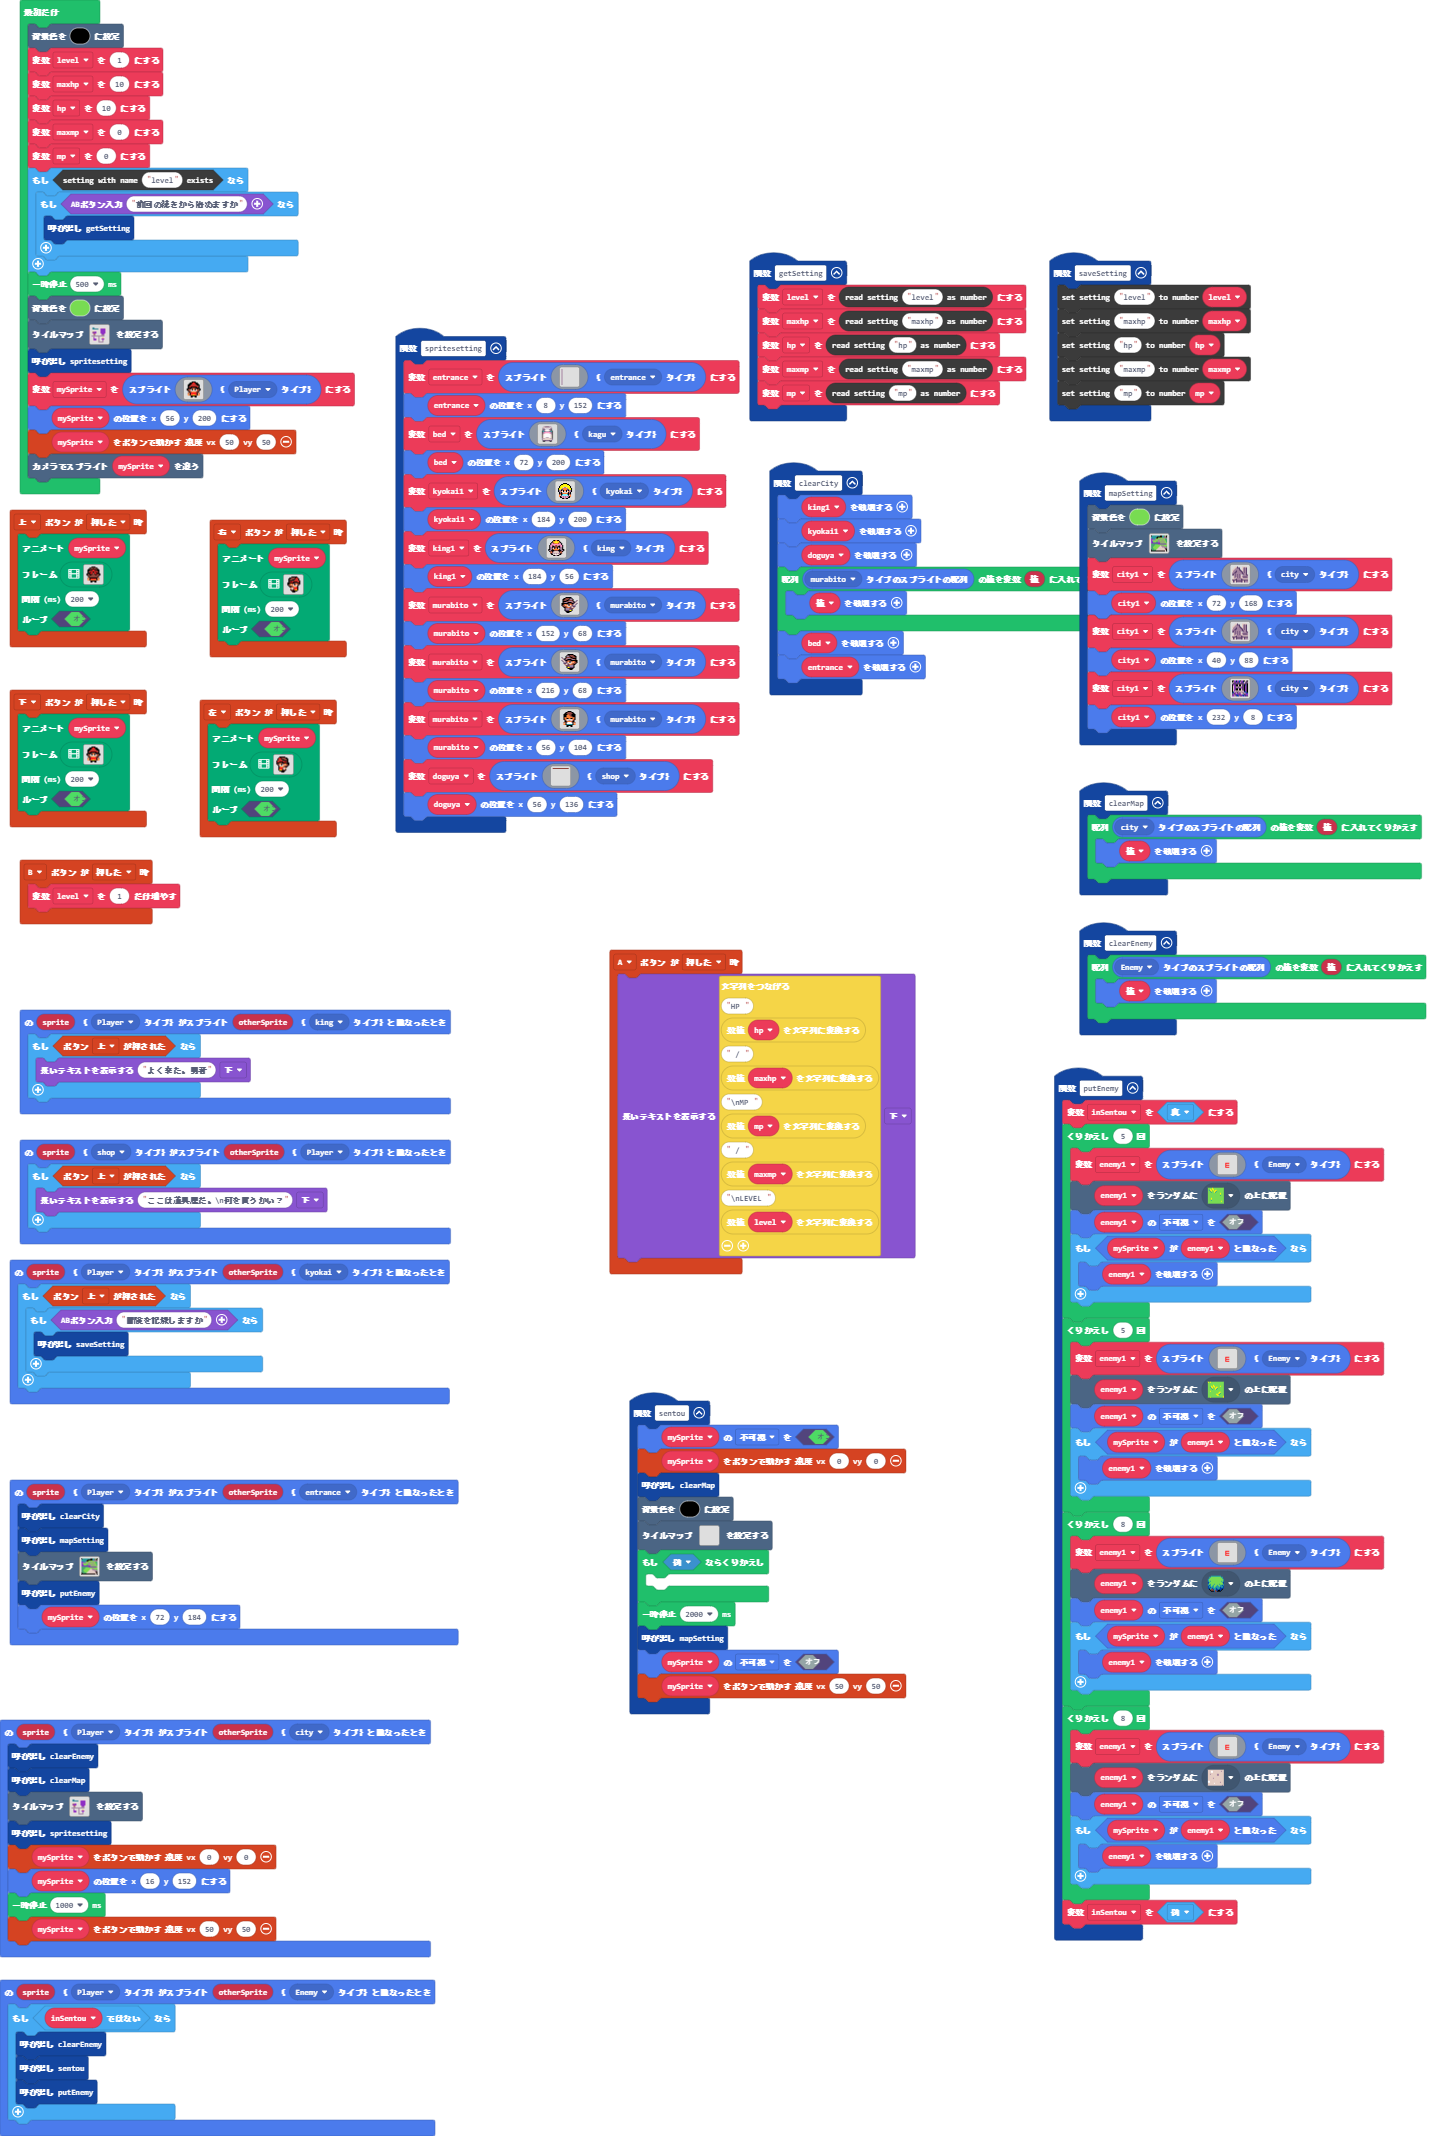
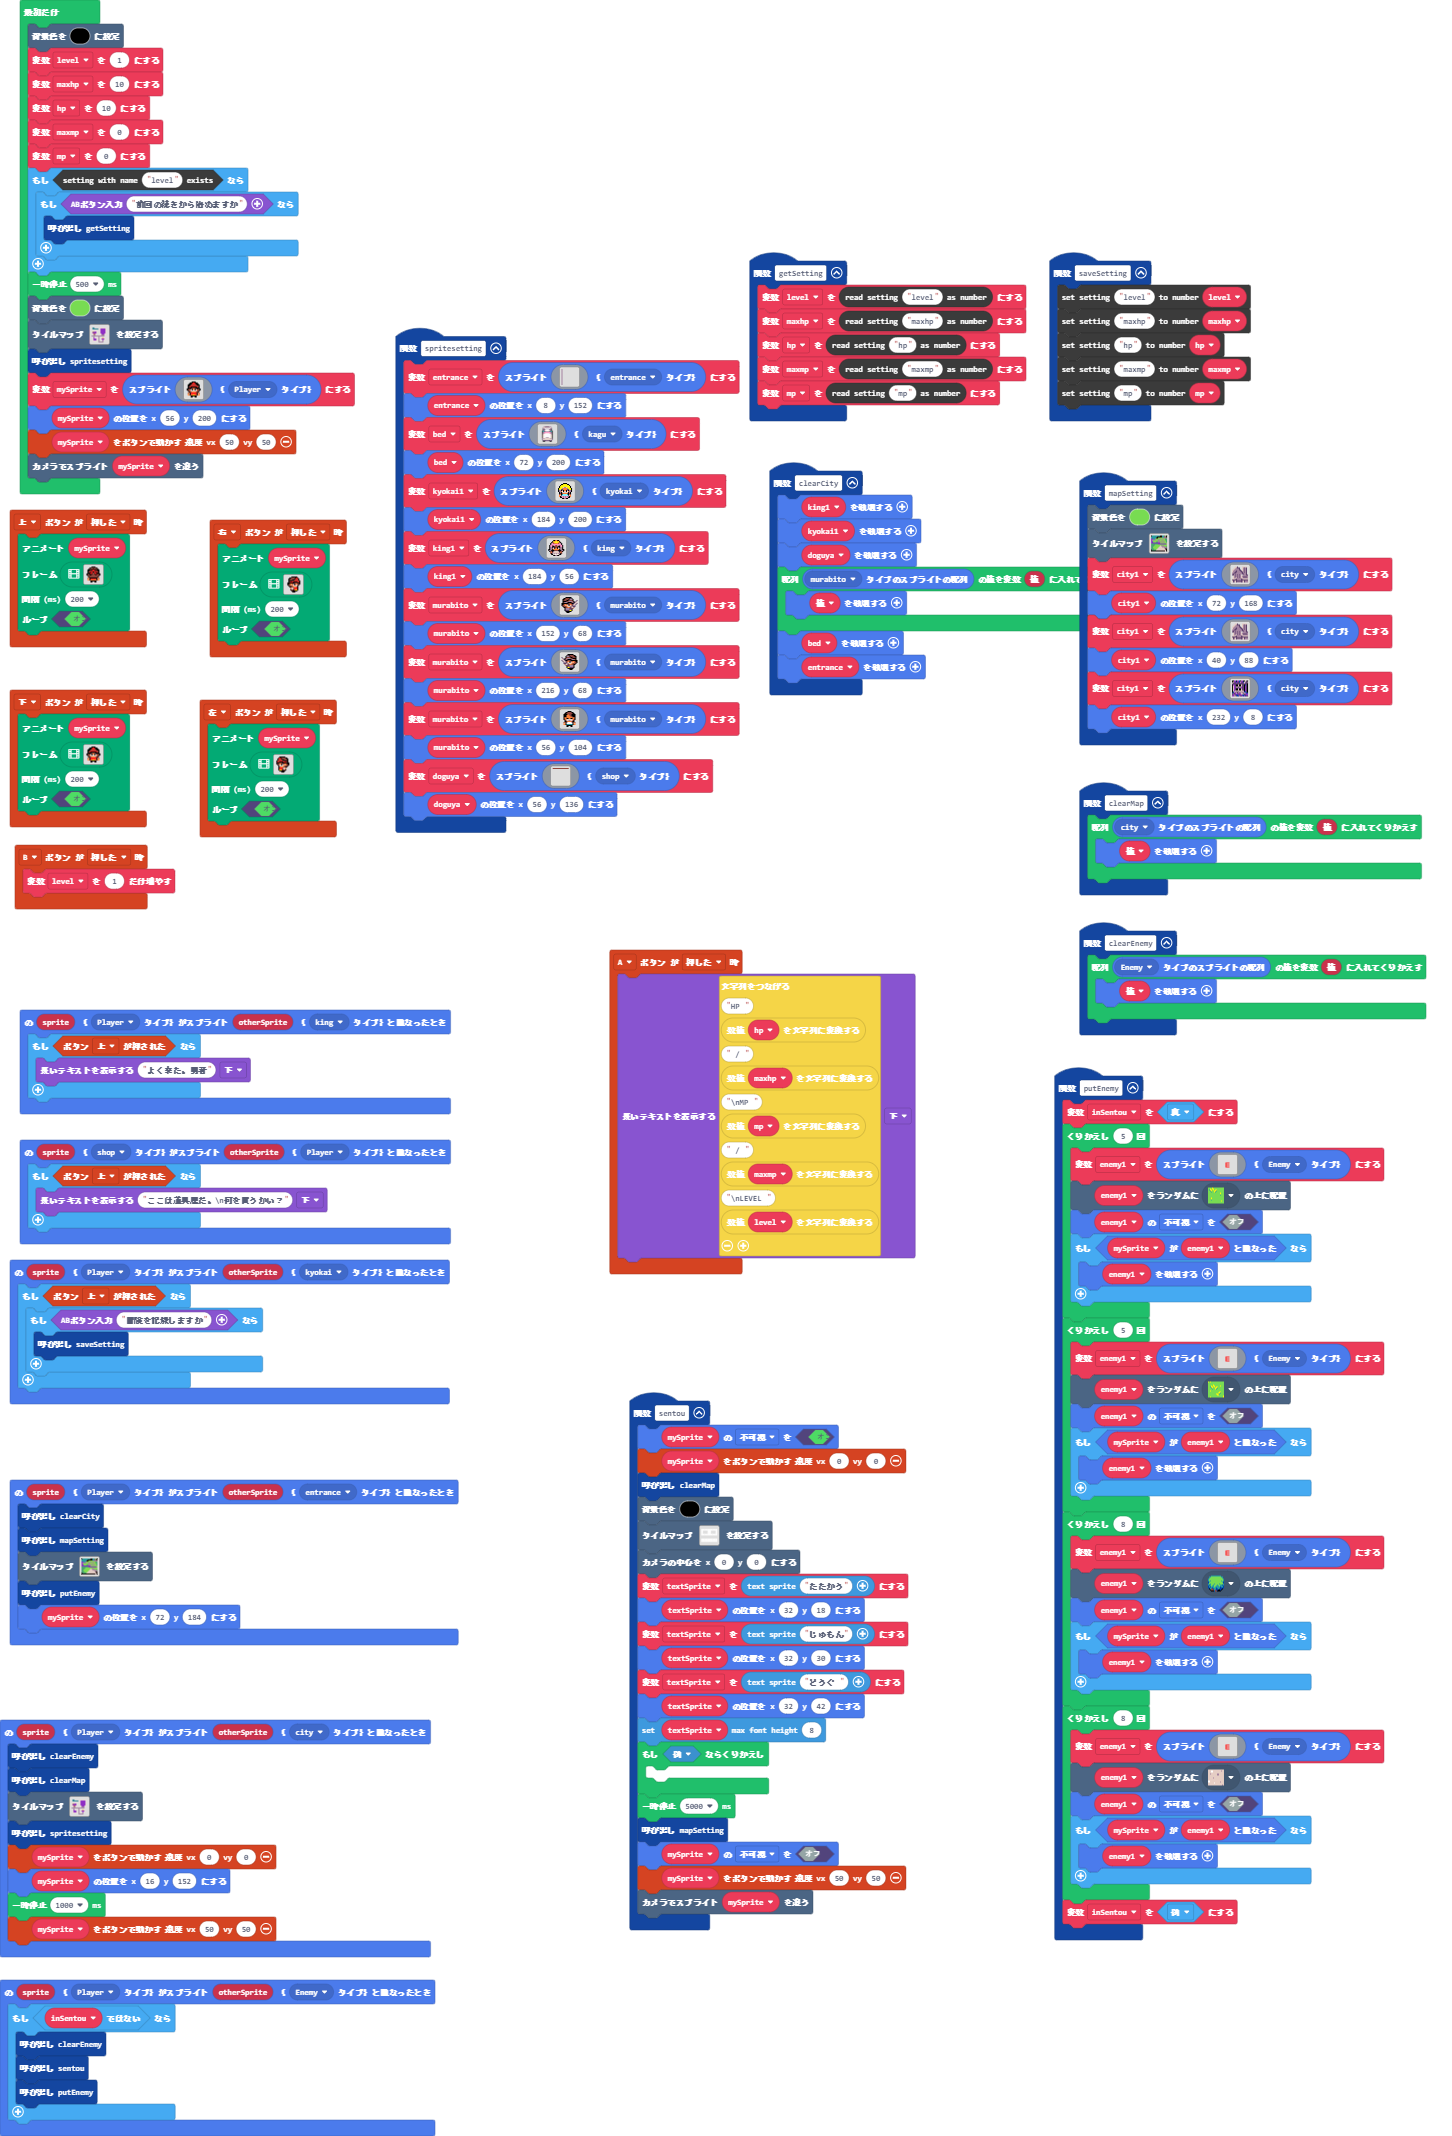
更新 pxt.json, main.blocks, main.ts, tilemap.g.jres, tilemap.g.ts

Changed region(s): [[0.4339, 0.7107, 0.6508, 0.927], [0.0, 0.3708, 0.124, 0.4326]]

diff --git a/tilemap.g.ts b/tilemap.g.ts
@@ -8,6 +8,20 @@ namespace myTiles {
     export const tile3 = image.ofBuffer(hex``);
     //% fixedInstance jres blockIdentity=images._tile
     export const tile2 = image.ofBuffer(hex``);
+    //% fixedInstance jres blockIdentity=images._tile
+    export const tile4 = image.ofBuffer(hex``);
+    //% fixedInstance jres blockIdentity=images._tile
+    export const tile6 = image.ofBuffer(hex``);
+    //% fixedInstance jres blockIdentity=images._tile
+    export const tile5 = image.ofBuffer(hex``);
+    //% fixedInstance jres blockIdentity=images._tile
+    export const tile7 = image.ofBuffer(hex``);
+    //% fixedInstance jres blockIdentity=images._tile
+    export const tile8 = image.ofBuffer(hex``);
+    //% fixedInstance jres blockIdentity=images._tile
+    export const tile9 = image.ofBuffer(hex``);
+    //% fixedInstance jres blockIdentity=images._tile
+    export const tile10 = image.ofBuffer(hex``);
 
     helpers._registerFactory("tilemap", function(name: string) {
         switch(helpers.stringTrim(name)) {
@@ -68,25 +82,6 @@ namespace myTiles {
 . . . . . . . . . . . . . . . . 
 . . . . . . . . . . . . . . . . 
 `, [myTiles.transparency16], TileScale.Sixteen);
-            case "レベル3":
-            case "レベル3":return tiles.createTilemap(hex`1000100000000000000000000000000000000000000000000000000000000000000000000000000000000000000000000000000000000000000000000000000000000000000000000000000000000000000000000000000000000000000000000000000000000000000000000000000000000000000000000000000000000000000000000000000000000000000000000000000000000000000000000000000000000000000000000000000000000000000000000000000000000000000000000000000000000000000000000000000000000000000000000000000000000000000000000000000000000000000000000000000000000000000000000000000000000000`, img`
-. . . . . . . . . . . . . . . . 
-. . . . . . . . . . . . . . . . 
-. . . . . . . . . . . . . . . . 
-. . . . . . . . . . . . . . . . 
-. . . . . . . . . . . . . . . . 
-. . . . . . . . . . . . . . . . 
-. . . . . . . . . . . . . . . . 
-. . . . . . . . . . . . . . . . 
-. . . . . . . . . . . . . . . . 
-. . . . . . . . . . . . . . . . 
-. . . . . . . . . . . . . . . . 
-. . . . . . . . . . . . . . . . 
-. . . . . . . . . . . . . . . . 
-. . . . . . . . . . . . . . . . 
-. . . . . . . . . . . . . . . . 
-. . . . . . . . . . . . . . . . 
-`, [myTiles.transparency16], TileScale.Sixteen);
             case "レベル6":
             case "レベル6":return tiles.createTilemap(hex`1000100000000000000000000000000000000000000000000000000000000000000000000000000000000000000000000000000000000000000000000000000000000000000000000000000000000000000000000000000000000000000000000000000000000000000000000000000000000000000000000000000000000000000000000000000000000000000000000000000000000000000000000000000000000000000000000000000000000000000000000000000000000000000000000000000000000000000000000000000000000000000000000000000000000000000000000000000000000000000000000000000000000000000000000000000000000000`, img`
 . . . . . . . . . . . . . . . . 
@@ -125,6 +120,17 @@ namespace myTiles {
 2 . . . . . . . . . . . . . . 2 
 2 2 2 2 2 2 2 2 2 2 2 2 2 2 . 2 
 `, [myTiles.transparency16,sprites.swamp.swampTile7,sprites.swamp.swampTile8,sprites.swamp.swampTile12,sprites.swamp.swampTile9,sprites.dungeon.stairNorth,sprites.castle.tileGrass1,sprites.castle.tilePath5,sprites.castle.rock0,sprites.swamp.swampTile5,sprites.swamp.swampTile6,myTiles.tile3,sprites.builtin.forestTiles0,sprites.builtin.forestTiles10,sprites.builtin.forestTiles5,sprites.builtin.forestTiles6,sprites.builtin.forestTiles9,sprites.builtin.forestTiles7,sprites.builtin.forestTiles15,sprites.builtin.forestTiles13,sprites.builtin.forestTiles11,sprites.skillmap.islandTile4,sprites.castle.tileGrass3,sprites.castle.tileDarkGrass3,sprites.castle.tileDarkGrass1,sprites.builtin.forestTiles24], TileScale.Sixteen);
+            case "レベル3":
[1 lines of base64/hex data omitted]
+. . . . . . . . . . 
+. . . . . . . . . . 
+. . . . . . . . . . 
+. . . . . . . . . . 
+. . . . . . . . . . 
+. . . . . . . . . . 
+. . . . . . . . . . 
+. . . . . . . . . . 
+`, [myTiles.transparency16,myTiles.tile5,myTiles.tile6,myTiles.tile7,myTiles.tile8,myTiles.tile9,myTiles.tile10], TileScale.Sixteen);
         }
         return null;
     })
@@ -138,6 +144,20 @@ namespace myTiles {
             case "tile3":return tile3;
             case "myTile0":
             case "tile2":return tile2;
+            case "myTile2":
+            case "tile4":return tile4;
+            case "myTile4":
+            case "tile6":return tile6;
+            case "myTile3":
+            case "tile5":return tile5;
+            case "myTile5":
+            case "tile7":return tile7;
+            case "myTile6":
+            case "tile8":return tile8;
+            case "myTile7":
+            case "tile9":return tile9;
+            case "myTile8":
+            case "tile10":return tile10;
         }
         return null;
     })

diff --git a/main.ts b/main.ts
@@ -369,13 +369,22 @@ function sentou () {
     clearMap()
     scene.setBackgroundColor(15)
     tiles.setTilemap(tilemap`レベル3`)
+    scene.centerCameraAt(0, 0)
+    textSprite = textsprite.create("たたかう")
+    textSprite.setPosition(32, 18)
+    textSprite = textsprite.create("じゅもん")
+    textSprite.setPosition(32, 30)
+    textSprite = textsprite.create("どうぐ　")
+    textSprite.setPosition(32, 42)
+    textSprite.setMaxFontHeight(8)
     while (false) {
     	
     }
-    pause(2000)
+    pause(5000)
     mapSetting()
     mySprite.setFlag(SpriteFlag.Invisible, false)
     controller.moveSprite(mySprite, 50, 50)
+    scene.cameraFollowSprite(mySprite)
 }
 controller.down.onEvent(ControllerButtonEvent.Pressed, function () {
     animation.runImageAnimation(
@@ -700,6 +709,7 @@ controller.A.onEvent(ControllerButtonEvent.Pressed, function () {
     game.showLongText("HP " + convertToText(hp) + " / " + convertToText(maxhp) + "\\nMP " + convertToText(mp) + " / " + convertToText(maxmp) + "\\nLEVEL " + convertToText(level), DialogLayout.Bottom)
 })
 let city1: Sprite = null
+let textSprite: TextSprite = null
 let doguya: Sprite = null
 let murabito: Sprite = null
 let king1: Sprite = null
